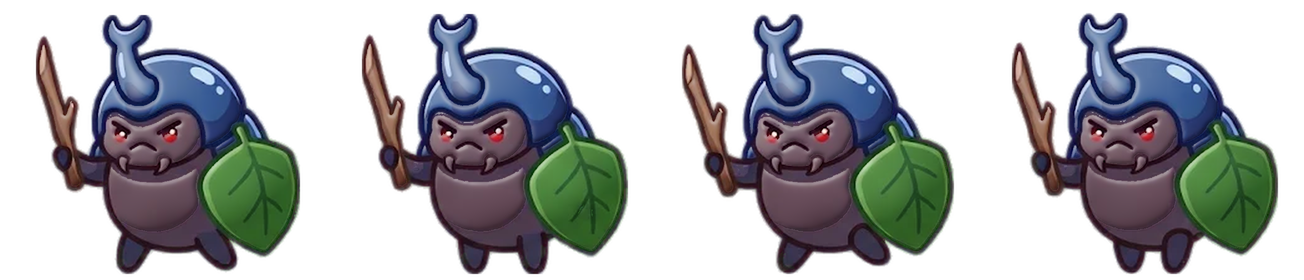
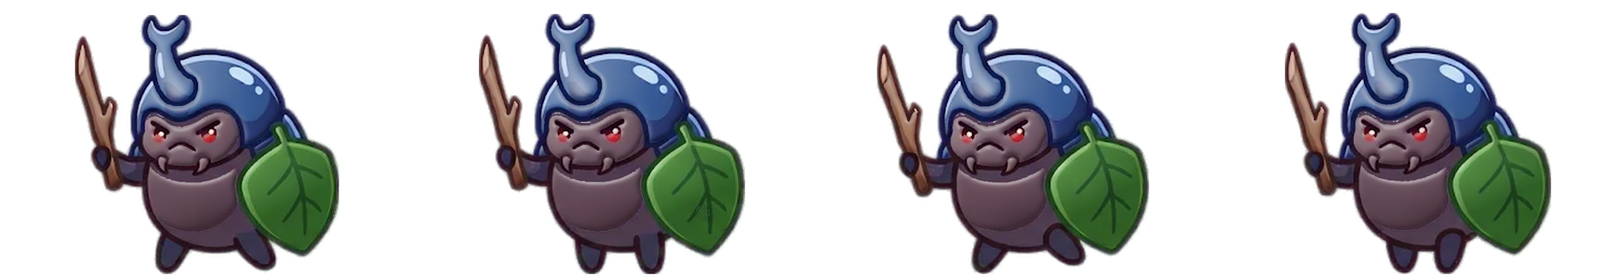
Make the Beetle Knight strike toward the brawlers
Facing left, the beetle holds its sword in the far hand, behind its
body, so swinging the sword across the body read as an attack to the
right: the end of the stick below the hand stuck out on that side.

The strike now takes the sword and the hand off the ready pose and puts
them back in front of the body, swung down past the shield toward the
brawlers, a little longer, without the stick's bottom end.

Claude-Session: https://claude.ai/code/session_01EhkagQdMKRPvrdP32sj85t

diff --git a/scripts/make_enemies.py b/scripts/make_enemies.py
@@ -46,12 +46,15 @@ ENEMIES = {
         "scale": 0.8,          # its size next to the brawlers, as in brawlers/sizes.json (the Mage is 1)
         "height": 260,         # px of its still sprite, like the brawlers' flat sprites
         # The poses of the attack, from the sheet's bottom row. Gemini never drew the strike
-        # itself (the sword stays pulled back), so the strike is made from the ready pose: its
-        # sword and the hand holding it (everything left of `cut_x`) are turned by `turn`
-        # degrees around the hand (`pivot`), so the sword swings forward across the body.
-        # Both are in px of the pose on the sheet, from its top left corner.
+        # itself (the sword stays pulled back), so the strike is made from the ready pose: the
+        # sword and the hand holding it (what is inside the box `take`, without the bit of stick
+        # below row `below`) are taken off and put back in front of the body: the hand, at
+        # `hand`, goes to `to`, and the sword is turned by `turn` degrees and drawn `grow` times
+        # as long, so it swings down past the shield at whoever is in front. All in px of the
+        # pose on the sheet, from its top left corner, facing right as drawn.
         "attack": [0, 1, "strike", 3],
-        "strike": {"pose": 0, "cut_x": 38, "pivot": (25, 122), "turn": -128},
+        "strike": {"pose": 0, "take": (40, 150), "below": 126, "hand": (25, 122), "to": (128, 112),
+                   "turn": -120, "grow": 1.3},
         # The slash: where its middle goes, as parts of the frame's width and height on the
         # striking pose (facing right, as drawn), its longest side at its biggest (px of the
         # frame), and how long before the hit lands it starts.
@@ -92,20 +95,24 @@ def cut_poses(sheet: Path) -> list[list[np.ndarray]]:
 
 
 def strike(pose: np.ndarray, spec: dict) -> np.ndarray:
-    """The ready pose with its sword swung forward: the part left of `cut_x` turned around the hand."""
+    """The ready pose with its sword swung forward, in front of the body (see ENEMIES)."""
     h, w = pose.shape[:2]
-    m = max(h, w) // 2                                     # room for the sword to swing out
-    left = np.arange(w)[None, :] < spec["cut_x"]
-    body, sword = pose.copy(), pose.copy()
-    body[..., 3] = np.where(left, 0, body[..., 3])
-    sword[..., 3] = np.where(left, sword[..., 3], 0)
+    ys, xs = np.mgrid[0:h, 0:w]
+    off = (xs < spec["take"][0]) & (ys < spec["take"][1])     # the sword, the hand and the end of the arm
+    sword, body = pose.copy(), pose.copy()
+    sword[..., 3] = np.where(off & (ys < spec["below"]), sword[..., 3], 0)
+    body[..., 3] = np.where(off, 0, body[..., 3])
+    m = max(h, w)                                              # room for the sword to swing out
     canvas = Image.new("RGBA", (w + 2 * m, h + 2 * m), (0, 0, 0, 0))
     canvas.alpha_composite(Image.fromarray(body, "RGBA"), (m, m))
-    turned = Image.new("RGBA", canvas.size, (0, 0, 0, 0))
-    turned.alpha_composite(Image.fromarray(sword, "RGBA"), (m, m))
-    px, py = spec["pivot"]
-    turned = turned.convert("RGBa").rotate(spec["turn"], resample=Image.BICUBIC, center=(px + m, py + m))
-    canvas.alpha_composite(turned.convert("RGBA"))       # the sword in front of the body
+    k = spec["grow"]
+    piece = Image.fromarray(sword, "RGBA").crop((0, 0, spec["take"][0], spec["below"])).convert("RGBa")
+    piece = piece.resize((round(piece.width * k), round(piece.height * k)), Image.LANCZOS)
+    (hx, hy), (tx, ty) = spec["hand"], spec["to"]
+    layer = Image.new("RGBa", canvas.size, (0, 0, 0, 0))
+    layer.paste(piece, (round(m + tx - hx * k), round(m + ty - hy * k)))
+    layer = layer.rotate(spec["turn"], resample=Image.BICUBIC, center=(m + tx, m + ty))
+    canvas.alpha_composite(layer.convert("RGBA"))             # the sword in front of the body
     return np.asarray(canvas.crop(canvas.getbbox()))
 
 

diff --git a/enemies/README.md b/enemies/README.md
@@ -45,9 +45,10 @@ timed and shaded like theirs (see [`scripts/extract_animations.py`](../scripts/e
 and only turned around at the end.
 
 Gemini never drew the strike itself: however it was asked, the sword stayed pulled back. So
-the strike is made from the ready pose: the sword and the hand that holds it are swung forward
-across the body. The third pose of the sheet's bottom row is not used. The slash appears in
-front of the beetle as the hit lands, like the brawlers' attack effects.
+the strike is made from the ready pose: the sword and the hand that holds it are taken off and
+put back in front of the body, swung down past the shield at the brawlers. The third pose of
+the sheet's bottom row is not used. The slash appears in front of the beetle as the hit lands,
+like the brawlers' attack effects.
 
 Its motion is with the brawlers' in [`scripts/brawler_motion.py`](../scripts/brawler_motion.py):
 a waddle for the walk, and for the attack a lunge with a little hop as it winds up.
